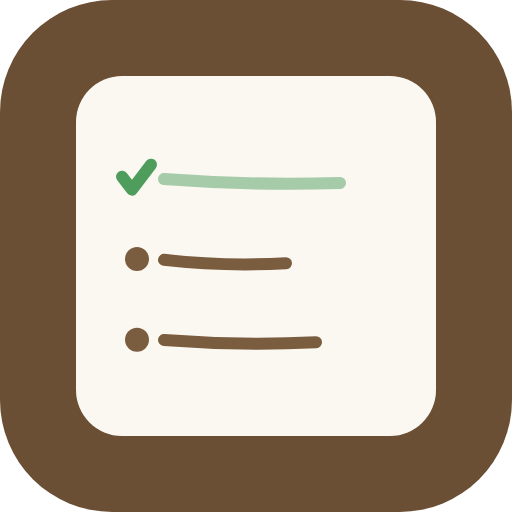
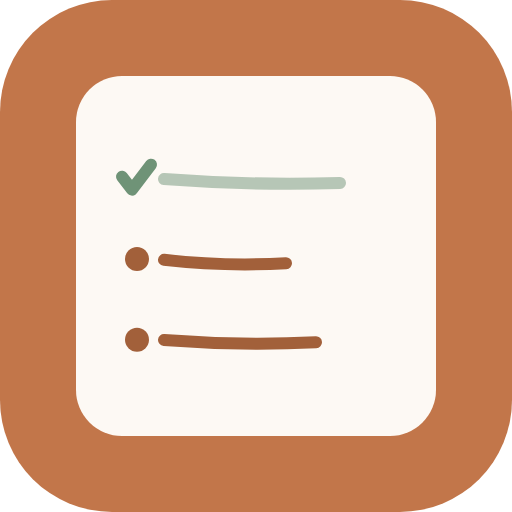
配色改成莫兰迪，主色换成陶土橙
- 主色从褐色 #7a5c3e 换成莫兰迪橙 #a95f33（压白字对比度 4.8）；
  纸底、墨色、分割线整体降饱和往灰里掺，走小清新的路子
- 八色调色板全部重做成莫兰迪：陶土橙 / 砖红 / 赭黄 / 鼠尾草 / 青灰 /
  雾蓝 / 丁香 / 灰。第一个（默认色）由褐改橙
- 状态色改成「淡底 + 深字 + 同色描边」三件一套。莫兰迪饱和度低，
  中间调压白字对比度不够看；淡底配深字既对味也真的看得清。
  淡底又不能太淡 —— 否则周视图「一眼看出哪天有任务没做」就没了
- PWA 图标底色和 theme_color（浏览器地址栏/状态栏那条）由褐改橙，
  勾改成鼠尾草绿；icon / maskable / apple-touch 全部重新生成
- 顺带把散在 CSS 里的十几处硬编码颜色都收进变量

Claude-Session: https://claude.ai/code/session_01DZAbqQtRdWya478mojieFk

diff --git a/src/app.css b/src/app.css
@@ -63,9 +63,9 @@
   display: flex;
   align-items: center;
   gap: 0.5rem;
-  background: #f8e6e2;
+  background: var(--bad-bg);
   border: 1px solid var(--bad);
-  color: #8a3527;
+  color: var(--bad-ink);
   border-radius: var(--radius);
   padding: 0.5rem 0.75rem;
   margin-bottom: 1rem;
@@ -334,8 +334,8 @@
 }
 
 .wt-block.status-done {
-  background: #e3efe4;
-  border-color: #b9d6bd;
+  background: var(--ok-bg);
+  border-color: var(--ok);
 }
 
 .wt-block.status-skipped {
@@ -418,7 +418,6 @@ th.gt-name {
   border-radius: 5px;
   font-family: system-ui, -apple-system, sans-serif;
   font-size: 0.62rem;
-  color: #fff;
   border: 1px solid transparent;
   display: inline-grid;
   place-items: center;
@@ -449,9 +448,9 @@ th.gt-name {
 
 .week-grid-table .gt-check.done,
 .week-grid-table .gt-check.done:hover {
-  background: var(--ok);
+  background: var(--ok-bg);
   border-color: var(--ok);
-  color: #fff;
+  color: var(--ok-ink);
 }
 
 .gt-check.skipped {
@@ -735,14 +734,14 @@ th.gt-name {
 
 .entry-block.state-conflict {
   opacity: 0.7;
-  background: #f6ded9;
+  background: var(--bad-bg);
   border-color: var(--bad);
   border-style: dashed;
 }
 
 .entry-block.dragging {
   opacity: 0.9;
-  box-shadow: 0 4px 14px rgba(47, 42, 36, 0.25);
+  box-shadow: 0 4px 14px rgba(60, 55, 51, 0.25);
   z-index: 3;
 }
 
@@ -815,7 +814,8 @@ th.gt-name {
 }
 
 .entry-block.faded {
-  opacity: 0.42;
+  /* 底色整体变浅之后，0.42 几乎看不见了 */
+  opacity: 0.52;
 }
 
 .dur-cell {
@@ -844,8 +844,8 @@ th.gt-name {
 .entry-block.status-skipped {
   background: repeating-linear-gradient(
     45deg,
-    #f0eae0 0 6px,
-    #e6ded1 6px 12px
+    var(--rule) 0 6px,
+    var(--rule-strong) 6px 12px
   );
   text-decoration: line-through;
 }
@@ -855,8 +855,8 @@ th.gt-name {
 }
 
 .timeline-col.actually .entry-block {
-  background: #e3efe4;
-  border-color: #b9d6bd;
+  background: var(--ok-bg);
+  border-color: var(--ok);
 }
 
 .entry-title {
@@ -960,7 +960,7 @@ th.gt-name {
 
 .status-pill {
   display: inline-block;
-  color: #fff;
+  border: 1px solid transparent;
   border-radius: 999px;
   padding: 0.05rem 0.55rem;
   font-size: 0.72rem;
@@ -975,7 +975,7 @@ th.gt-name {
 .modal-backdrop {
   position: fixed;
   inset: 0;
-  background: rgba(47, 42, 36, 0.35);
+  background: rgba(60, 55, 51, 0.32);
   display: grid;
   place-items: center;
   padding: 1rem;
@@ -1144,9 +1144,9 @@ th.gt-name {
 }
 
 .todo-check.done {
-  background: var(--ok);
+  background: var(--ok-bg);
   border-color: var(--ok);
-  color: #fff;
+  color: var(--ok-ink);
 }
 
 .todo-title {
@@ -1292,7 +1292,7 @@ th.gt-name {
   padding: 0;
   border-radius: 50%;
   border: 2px solid transparent;
-  box-shadow: inset 0 0 0 1px rgba(47, 42, 36, 0.15);
+  box-shadow: inset 0 0 0 1px rgba(60, 55, 51, 0.14);
 }
 
 .color-dot:hover:not(:disabled) {
@@ -1361,7 +1361,7 @@ th.gt-name {
   border-radius: 50%;
   background: var(--paper-2);
   border: 1px solid var(--rule-strong);
-  box-shadow: 0 3px 12px rgba(47, 42, 36, 0.22);
+  box-shadow: 0 3px 12px rgba(60, 55, 51, 0.2);
   color: var(--ink);
 }
 
@@ -1376,8 +1376,8 @@ th.gt-name {
   align-items: center;
   gap: 0.5rem;
   flex-wrap: wrap;
-  background: #e3efe4;
-  border: 1px solid #b9d6bd;
+  background: var(--ok-bg);
+  border: 1px solid var(--ok);
   border-radius: var(--radius);
   padding: 0.5rem 0.75rem;
   margin-bottom: 0.8rem;
@@ -1407,9 +1407,9 @@ th.gt-name {
 }
 
 .timer-btn.on {
-  background: var(--ok);
+  background: var(--ok-bg);
   border-color: var(--ok);
-  color: #fff;
+  color: var(--ok-ink);
 }
 
 .capacity {
@@ -1422,8 +1422,8 @@ th.gt-name {
 }
 
 .capacity.over {
-  background: #f7e6e2;
-  color: #8a3527;
+  background: var(--bad-bg);
+  color: var(--bad-ink);
 }
 
 /* 正在计时的块：还没结束，画成虚线 */

diff --git a/src/index.css b/src/index.css
@@ -1,20 +1,34 @@
 :root {
-  /* 纸质 planner 的感觉：米白纸、墨色字、细横线 */
-  --paper: #faf7f0;
-  --paper-2: #fffdf8;
-  --ink: #2f2a24;
-  --ink-soft: #6d655a;
-  --ink-faint: #a8a094;
-  --rule: #e2dbcd;
-  --rule-strong: #cdc3b0;
-  --accent: #7a5c3e;
-  --accent-soft: #efe4d5;
-  --ok: #4f9d5d;
-  --warn: #d9a521;
-  --bad: #cc5b4a;
-  --special: #7d6bb0;
+  /* 莫兰迪配色：低饱和、掺灰的暖色。主色是一味莫兰迪橙（陶土色）。
+     深浅两档分开用 —— 淡的做底、深的做字：
+     莫兰迪本身饱和度低，中间调上压白字对比度不够看，
+     改成「淡底 + 深字」既符合这个调子，也真的看得清。 */
+  --paper: #faf8f5;
+  --paper-2: #fffefc;
+  --ink: #3c3733;
+  --ink-soft: #7b736b;
+  --ink-faint: #aca49c;
+  --rule: #ebe5de;
+  --rule-strong: #d7cdc2;
+
+  --accent: #a95f33;          /* 主色，压白字对比度 4.8 */
+  --accent-soft: #f6e5d7;     /* 淡橙，选中态和高亮的底 */
+  --accent-line: #cf9a72;     /* 装饰性的浅橙 */
+  --accent-dark: #8e4e28;     /* hover 用 */
+
+  --ok: #7f9c81;              /* 鼠尾草绿 */
+  --ok-bg: #d6e3d7;
+  --ok-ink: #43644a;
+  --warn: #bb9a56;            /* 赭黄 */
+  --warn-bg: #ece0c2;
+  --warn-ink: #705826;
+  --bad: #b57a6b;             /* 陶砖红 */
+  --bad-bg: #ecd5cd;
+  --bad-ink: #8a4735;
+
+  --special: #8b82a6;         /* 丁香紫 */
   --radius: 8px;
-  --shadow: 0 1px 2px rgba(47, 42, 36, 0.06), 0 8px 24px rgba(47, 42, 36, 0.05);
+  --shadow: 0 1px 2px rgba(60, 55, 51, 0.05), 0 8px 24px rgba(60, 55, 51, 0.045);
 
   color-scheme: light;
   font-family: 'Iowan Old Style', 'Songti SC', Georgia, 'Times New Roman',
@@ -68,7 +82,8 @@ button.primary {
 }
 
 button.primary:hover:not(:disabled) {
-  background: #6a4f35;
+  background: var(--accent-dark);
+  border-color: var(--accent-dark);
 }
 
 button.ghost {
@@ -78,9 +93,9 @@ button.ghost {
 }
 
 button.danger:hover:not(:disabled) {
-  background: #f7e2de;
+  background: var(--bad-bg);
   border-color: var(--bad);
-  color: var(--bad);
+  color: var(--bad-ink);
 }
 
 input, select, textarea {

diff --git a/src/lib/colors.js b/src/lib/colors.js
@@ -1,18 +1,21 @@
 /**
- * 事项配色。不选就是默认色（跟着纸张的暖棕），
- * 选了就用这一组 —— 睡觉一个色、工作一个色，一眼分得开。
+ * 事项配色 —— 莫兰迪：低饱和、掺灰的粉调，不刺眼。
+ * 不选就是默认的莫兰迪橙（陶土色），选了就用这一组。
  *
- * 每个色给两档：block 是块的底色，dot 是选色器和小圆点用的实色。
+ * 每个色三档：
+ *   block 块的底色（很淡，上面要压深色的字）
+ *   edge  描边
+ *   dot   实心的小圆点 / 选色器
  */
 export const COLORS = {
-  default: { label: '默认', block: 'var(--accent-soft)', edge: 'var(--rule-strong)', dot: '#a98a63' },
-  blue: { label: '蓝', block: '#dde8f2', edge: '#93b4d2', dot: '#5b8cb8' },
-  green: { label: '绿', block: '#dcebdd', edge: '#9dc5a2', dot: '#5b9c63' },
-  amber: { label: '黄', block: '#f5e7c8', edge: '#d9bd7a', dot: '#c99a2e' },
-  rose: { label: '粉', block: '#f3dde2', edge: '#d59fae', dot: '#c2708a' },
-  violet: { label: '紫', block: '#e5dff2', edge: '#b2a3d6', dot: '#8672b8' },
-  teal: { label: '青', block: '#d7e9e8', edge: '#8fc0bd', dot: '#4e968f' },
-  grey: { label: '灰', block: '#e6e3dd', edge: '#b8b2a7', dot: '#8d867a' },
+  default: { label: '陶土橙', block: '#f6e5d7', edge: '#dfbb9d', dot: '#c07a4b' },
+  clay: { label: '砖红', block: '#efdfd9', edge: '#d6b3a8', dot: '#b57a6b' },
+  ochre: { label: '赭黄', block: '#f2eada', edge: '#d8c79f', dot: '#bb9a56' },
+  sage: { label: '鼠尾草', block: '#e2eae1', edge: '#b7c9b6', dot: '#7f9c81' },
+  teal: { label: '青灰', block: '#dfe9e7', edge: '#b0c6c2', dot: '#78a09a' },
+  mist: { label: '雾蓝', block: '#e3eaef', edge: '#b6c7d3', dot: '#7d9bad' },
+  lilac: { label: '丁香', block: '#e8e4ee', edge: '#c3bbd2', dot: '#8b82a6' },
+  stone: { label: '灰', block: '#e9e6e1', edge: '#c7c1b9', dot: '#97918a' },
 }
 
 export const COLOR_KEYS = Object.keys(COLORS)

diff --git a/src/lib/habits.js b/src/lib/habits.js
@@ -1,10 +1,15 @@
 /**
  * 打卡颜色规则 —— 只在前端计算，数据库只存 completion_pct。
  *   >= 100 绿 "nice" / >= 50 黄 "okay" / < 50 红 "keep going"
+ *
+ * 配色是莫兰迪的，饱和度低，中间调压白字看不清 ——
+ * 所以每档给「淡底 + 深字」一对，谁做背景谁做文字由调用方决定。
  */
 export function habitStatus(pct) {
   const value = Number(pct) || 0
-  if (value >= 100) return { level: 'nice', label: 'nice', color: 'var(--ok)' }
-  if (value >= 50) return { level: 'okay', label: 'okay', color: 'var(--warn)' }
-  return { level: 'low', label: 'keep going', color: 'var(--bad)' }
+  if (value >= 100)
+    return { level: 'nice', label: 'nice', bg: 'var(--ok-bg)', ink: 'var(--ok-ink)', edge: 'var(--ok)' }
+  if (value >= 50)
+    return { level: 'okay', label: 'okay', bg: 'var(--warn-bg)', ink: 'var(--warn-ink)', edge: 'var(--warn)' }
+  return { level: 'low', label: 'keep going', bg: 'var(--bad-bg)', ink: 'var(--bad-ink)', edge: 'var(--bad)' }
 }

diff --git a/src/components/WeekProgressGrid.jsx b/src/components/WeekProgressGrid.jsx
@@ -68,7 +68,15 @@ export default function WeekProgressGrid({
                         <td key={key} className="gt-cell">
                           <button
                             className={`gt-mark${blank ? ' empty' : ''}`}
-                            style={blank ? undefined : { background: status.color }}
+                            style={
+                              blank
+                                ? undefined
+                                : {
+                                    background: status.bg,
+                                    color: status.ink,
+                                    borderColor: status.edge,
+                                  }
+                            }
                             onClick={() => onSetPct(row, cell, nextPct(cell.pct))}
                             title={
                               blank

diff --git a/src/components/ProgressTable.jsx b/src/components/ProgressTable.jsx
@@ -126,7 +126,14 @@ export default function ProgressTable({
                   </td>
                   <td>
                     {status ? (
-                      <span className="status-pill" style={{ background: status.color }}>
+                      <span
+                        className="status-pill"
+                        style={{
+                          background: status.bg,
+                          color: status.ink,
+                          borderColor: status.edge,
+                        }}
+                      >
                         {status.label}
                       </span>
                     ) : (

diff --git a/index.html b/index.html
@@ -8,7 +8,7 @@
 
     <link rel="icon" type="image/svg+xml" href="/favicon.svg" />
     <link rel="manifest" href="/manifest.webmanifest" />
-    <meta name="theme-color" content="#6b4f34" />
+    <meta name="theme-color" content="#c2764a" />
 
     <!-- iOS 装到主屏：apple-* 那几个 iOS 仍然只认自己的写法 -->
     <link rel="apple-touch-icon" href="/apple-touch-icon.png" />

diff --git a/README.md b/README.md
@@ -200,7 +200,14 @@ src/components/           WeekView / DayView / Settings / …
   （每 30 秒重画），点「■ 结束」就落定。状态用的是 `status = 'in_progress'`，
   0001 的 check 约束里本来就有这个值。
 
-## 配色 / 待办的两个开关
+## 配色
+
+整体是**莫兰迪**：低饱和、掺灰的暖色，主色一味陶土橙（`--accent: #a95f33`）。
+
+有一处不能照搬莫兰迪：**中间调上压白字对比度不够看**。所以状态色都给
+「淡底 + 深字 + 同色描边」三件一套（`--ok-bg / --ok-ink / --ok`），
+既是这个调子，也真的看得清 —— 打卡格、状态 pill、错误条全走这一套。
+淡底还得够深，否则周视图那句「一眼看出哪天有任务没做」就不成立了。
 
 - **颜色**：每个模板或条目可以选一个颜色（睡觉一个色、工作一个色），
   不选就是默认的暖棕。时间轴的块、表格行前面的小圆点都跟着变。
@@ -252,6 +259,7 @@ src/components/           WeekView / DayView / Settings / …
 
 图标是一张手画风格的 to-do list —— 点 + 横线，第一条打了绿勾，
 线条故意画歪（`wob()`），儿童画的味道。缩到 32px 仍然认得出。
+底色和 `theme_color` 都是主色那味莫兰迪橙。
 改图标改 `scripts/gen-icons.mjs` 后重新生成即可
 （要先 `npm i -D playwright`，它不在项目依赖里）。
 
